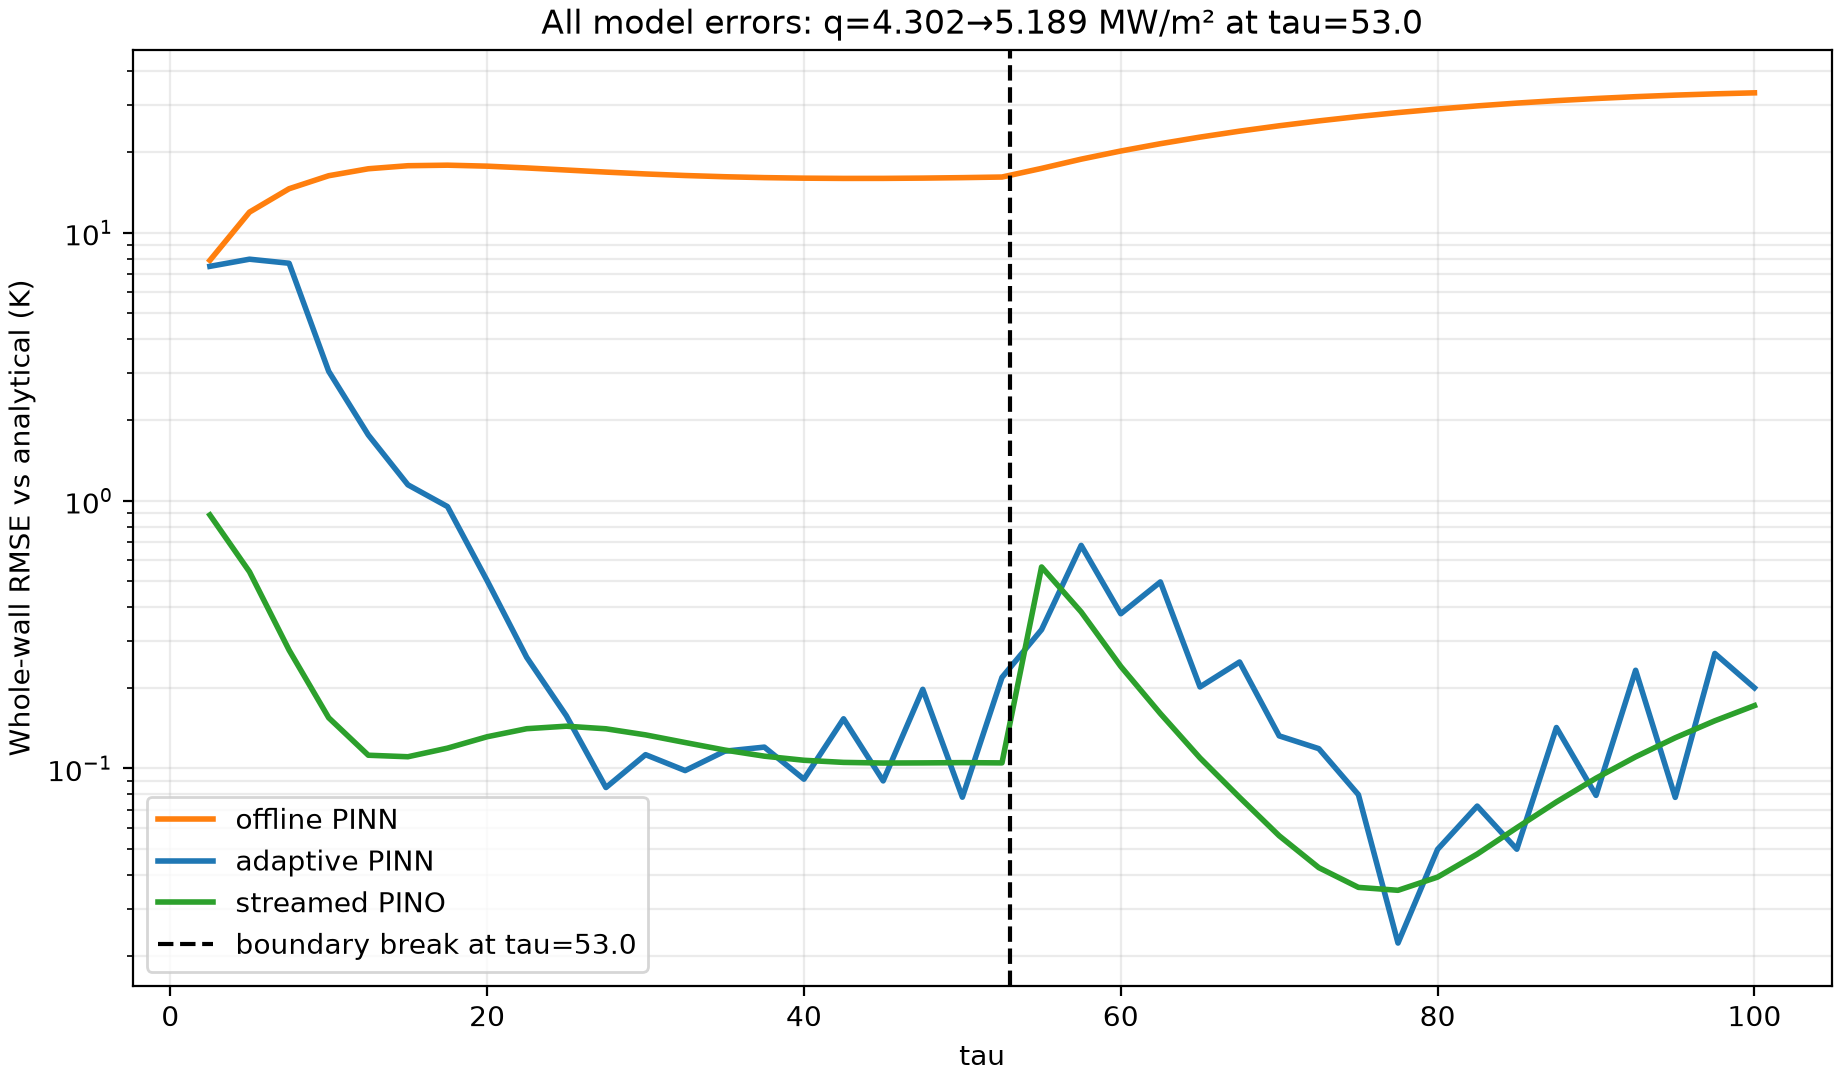
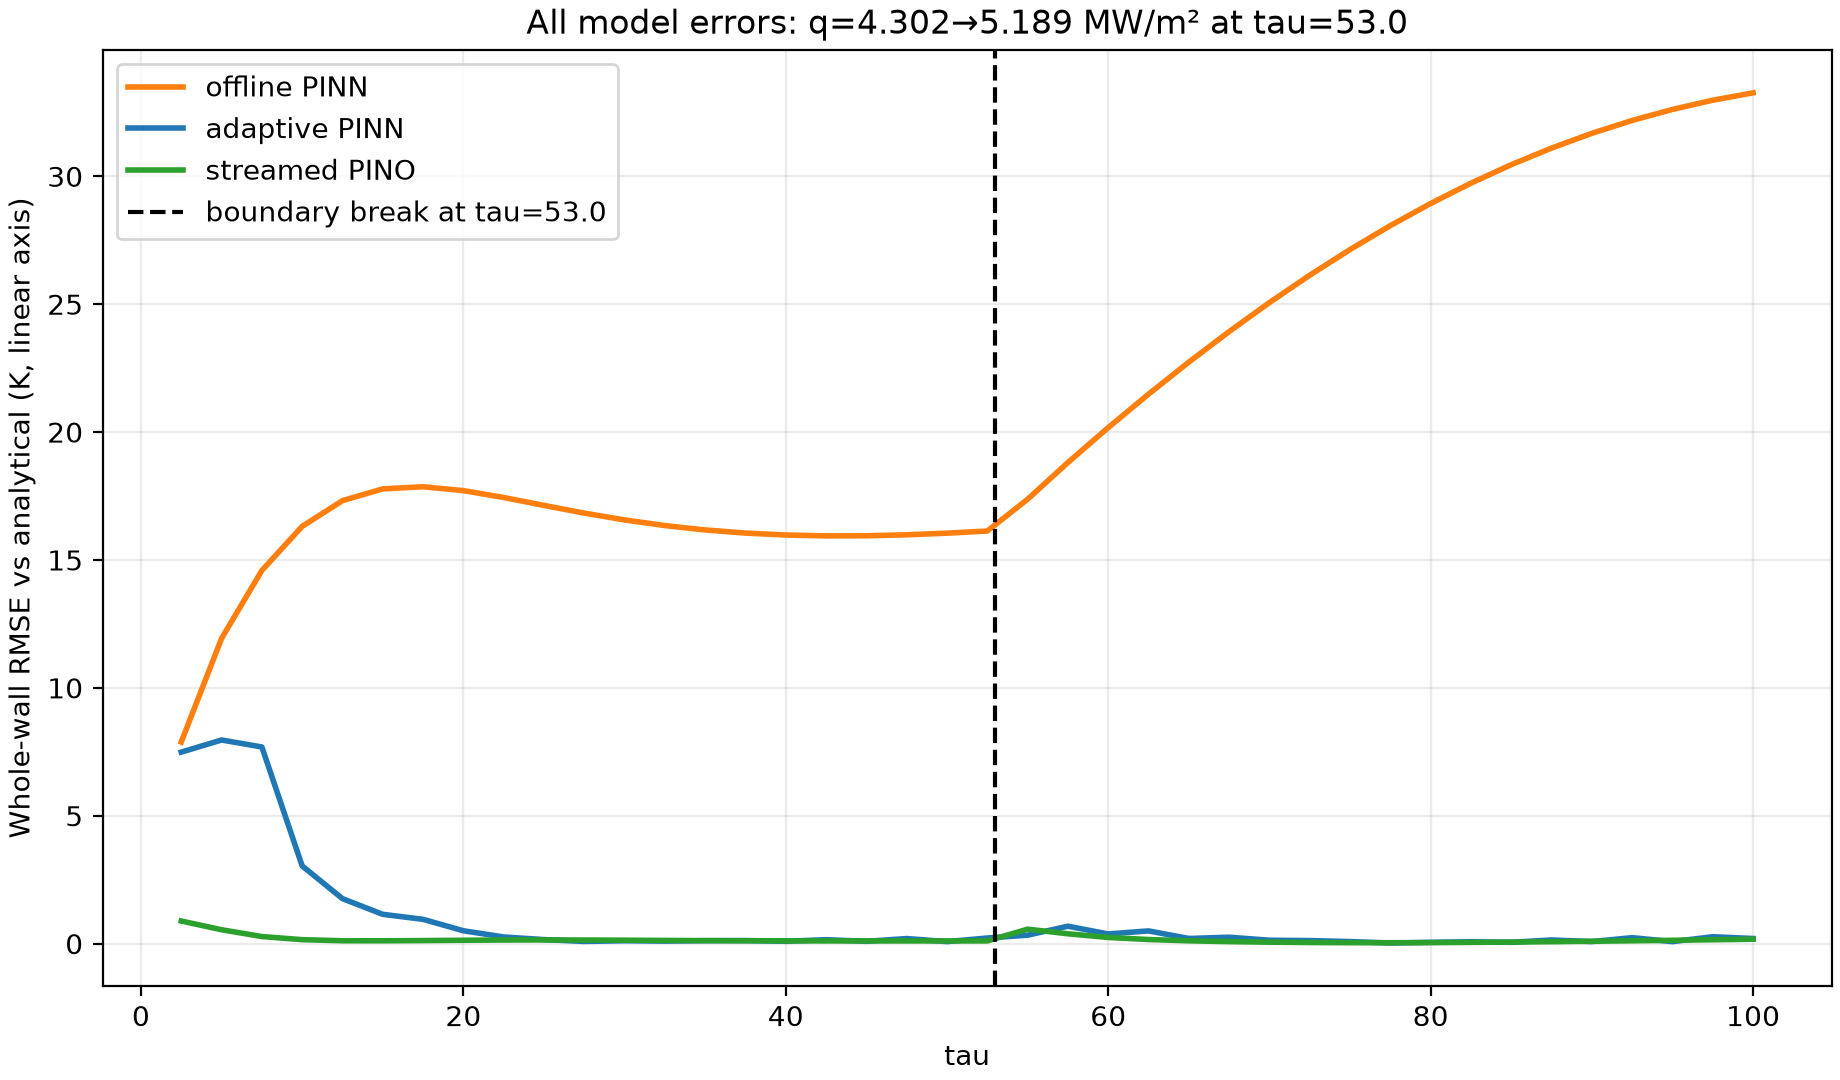
Use linear RMSE axes for new-case graph 04

diff --git a/DeepXDE/DeepXDE_adaptive_Final/core/evaluate_new_boundary_cases.py b/DeepXDE/DeepXDE_adaptive_Final/core/evaluate_new_boundary_cases.py
@@ -170,6 +170,7 @@ def _rmse_plot(
     arrays: dict,
     predictions: dict[str, np.ndarray],
     switch_time: float | None,
+    logarithmic: bool = True,
 ):
     fig, ax = plt.subplots(figsize=(9.2, 5.4), layout="constrained")
     colors = {
@@ -180,7 +181,8 @@ def _rmse_plot(
     tau = arrays["times"] * 100.0
     for label, field in predictions.items():
         error = _rmse_by_time(arrays["truth"], field)
-        ax.semilogy(tau[1:], error[1:], label=label, color=colors[label], linewidth=2)
+        plot = ax.semilogy if logarithmic else ax.plot
+        plot(tau[1:], error[1:], label=label, color=colors[label], linewidth=2)
     if switch_time is not None:
         ax.axvline(
             switch_time * 100.0,
@@ -188,7 +190,12 @@ def _rmse_plot(
             linestyle="--",
             label=f"boundary break at tau={switch_time * 100.0:.1f}",
         )
-    ax.set(title=title, xlabel="tau", ylabel="Whole-wall RMSE vs analytical (K)")
+    axis_description = "logarithmic" if logarithmic else "linear"
+    ax.set(
+        title=title,
+        xlabel="tau",
+        ylabel=f"Whole-wall RMSE vs analytical (K, {axis_description} axis)",
+    )
     ax.grid(alpha=0.25, which="both")
     ax.legend()
     fig.savefig(path, dpi=200)
@@ -285,6 +292,7 @@ def evaluate_case(
             "streamed PINO": pino_prediction,
         },
         switch_time,
+        logarithmic=False,
     )
     np.savez_compressed(
         case_dir / "predictions.npz",

diff --git a/DeepXDE/DeepXDE_adaptive_Final/results/2026-07-22/README.md b/DeepXDE/DeepXDE_adaptive_Final/results/2026-07-22/README.md
@@ -29,6 +29,9 @@ The `graphs/` folder contains 20 full-resolution figures:
 - `03_new_cases/random_break/`: four temperature/RMSE plots for the unseen
   4.302→5.189 MW/m² case with a random break at tau=53.
 
+For both new cases, Graph 04 uses a linear RMSE axis; Graph 02 retains the
+logarithmic axis for resolving the smaller adaptive-PINN errors.
+
 ## Headline RMSE
 
 | Case | Offline PINN | Adaptive PINN | Streamed PINO |